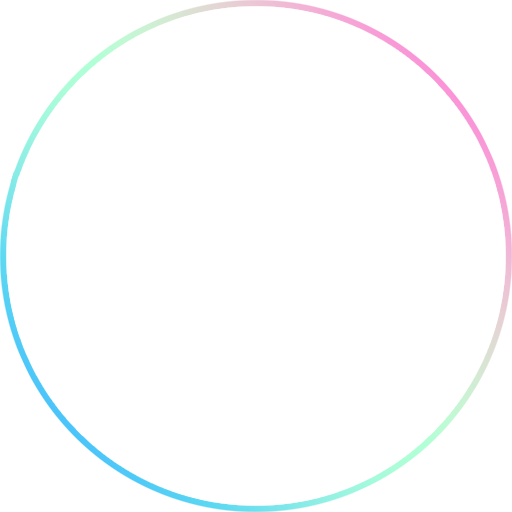
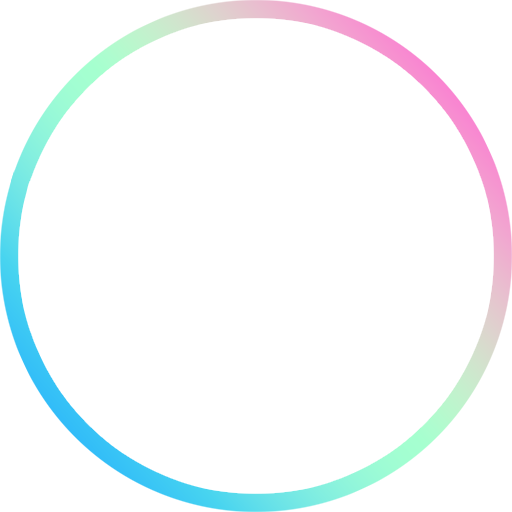
量子球：更换光环贴图 (#33)
* Update quantum ball aura texture and bust its cache

* Fix aura asset upload as binary PNG

Changed region(s): [[0.0, 0.0, 1.0, 1.0]]

diff --git a/src/game/render.ts b/src/game/render.ts
@@ -64,7 +64,7 @@ function quantumAura() {
     const image = new Image();
     image.decoding = "async";
     image.onload = () => { quantumAuraImage = image; };
-    image.src = "/game/balls/quantum-aura.png?v=1";
+    image.src = "/game/balls/quantum-aura.png?v=2";
     quantumAuraImage = image;
   }
   return null;
